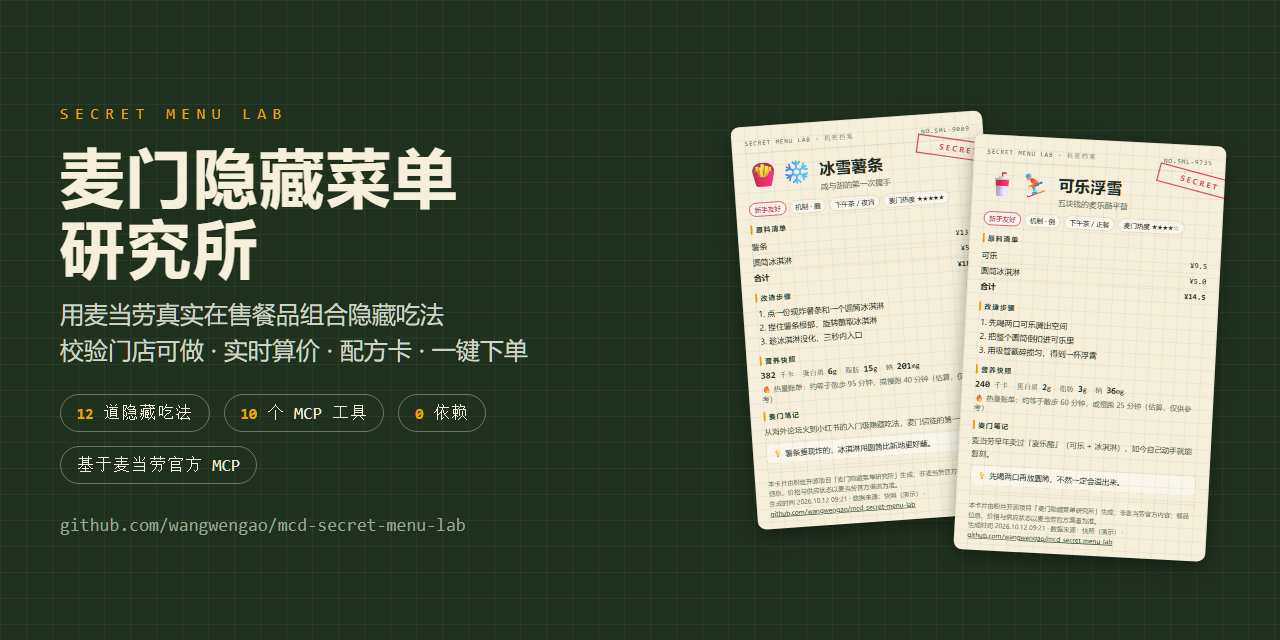
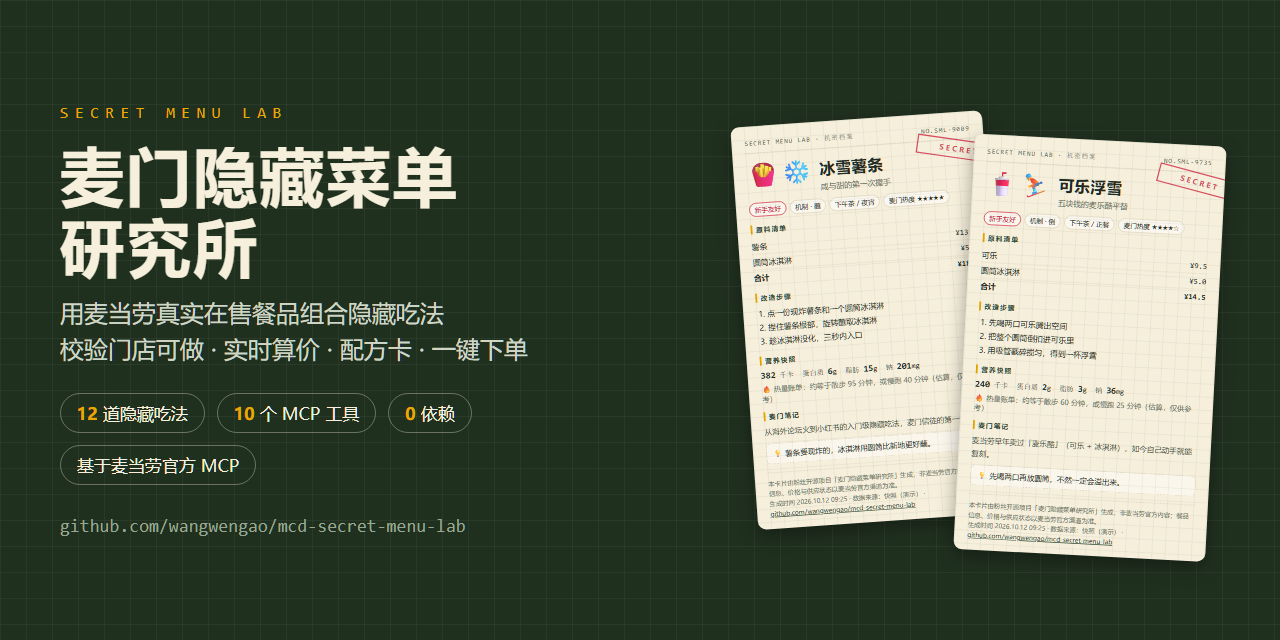
fix(social): 社交预览模板类名与卡片样式冲突

diff --git a/docs/demo.html b/docs/demo.html
@@ -137,7 +137,7 @@ ol.steps{margin:0;padding-left:18px;font-size:13px;line-height:1.75;}
   </section>
   <footer class="card__footer">
     本卡片由粉丝开源项目「麦门隐藏菜单研究所」生成，非麦当劳官方内容；餐品信息、价格与供应状态以麦当劳官方渠道为准。<br>
-    生成时间 2026.10.12 09:21 · 数据来源：快照（演示） · <a href="https://github.com/wangwengao/mcd-secret-menu-lab">github.com/wangwengao/mcd-secret-menu-lab</a>
+    生成时间 2026.10.12 09:25 · 数据来源：快照（演示） · <a href="https://github.com/wangwengao/mcd-secret-menu-lab">github.com/wangwengao/mcd-secret-menu-lab</a>
   </footer>
 </article>
 <div class="slot__actions">
@@ -208,7 +208,7 @@ ol.steps{margin:0;padding-left:18px;font-size:13px;line-height:1.75;}
   </section>
   <footer class="card__footer">
     本卡片由粉丝开源项目「麦门隐藏菜单研究所」生成，非麦当劳官方内容；餐品信息、价格与供应状态以麦当劳官方渠道为准。<br>
-    生成时间 2026.10.12 09:21 · 数据来源：快照（演示） · <a href="https://github.com/wangwengao/mcd-secret-menu-lab">github.com/wangwengao/mcd-secret-menu-lab</a>
+    生成时间 2026.10.12 09:25 · 数据来源：快照（演示） · <a href="https://github.com/wangwengao/mcd-secret-menu-lab">github.com/wangwengao/mcd-secret-menu-lab</a>
   </footer>
 </article>
 <div class="slot__actions">
@@ -279,7 +279,7 @@ ol.steps{margin:0;padding-left:18px;font-size:13px;line-height:1.75;}
   </section>
   <footer class="card__footer">
     本卡片由粉丝开源项目「麦门隐藏菜单研究所」生成，非麦当劳官方内容；餐品信息、价格与供应状态以麦当劳官方渠道为准。<br>
-    生成时间 2026.10.12 09:21 · 数据来源：快照（演示） · <a href="https://github.com/wangwengao/mcd-secret-menu-lab">github.com/wangwengao/mcd-secret-menu-lab</a>
+    生成时间 2026.10.12 09:25 · 数据来源：快照（演示） · <a href="https://github.com/wangwengao/mcd-secret-menu-lab">github.com/wangwengao/mcd-secret-menu-lab</a>
   </footer>
 </article>
 <div class="slot__actions">
@@ -350,7 +350,7 @@ ol.steps{margin:0;padding-left:18px;font-size:13px;line-height:1.75;}
   </section>
   <footer class="card__footer">
     本卡片由粉丝开源项目「麦门隐藏菜单研究所」生成，非麦当劳官方内容；餐品信息、价格与供应状态以麦当劳官方渠道为准。<br>
-    生成时间 2026.10.12 09:21 · 数据来源：快照（演示） · <a href="https://github.com/wangwengao/mcd-secret-menu-lab">github.com/wangwengao/mcd-secret-menu-lab</a>
+    生成时间 2026.10.12 09:25 · 数据来源：快照（演示） · <a href="https://github.com/wangwengao/mcd-secret-menu-lab">github.com/wangwengao/mcd-secret-menu-lab</a>
   </footer>
 </article>
 <div class="slot__actions">
@@ -421,7 +421,7 @@ ol.steps{margin:0;padding-left:18px;font-size:13px;line-height:1.75;}
   </section>
   <footer class="card__footer">
     本卡片由粉丝开源项目「麦门隐藏菜单研究所」生成，非麦当劳官方内容；餐品信息、价格与供应状态以麦当劳官方渠道为准。<br>
-    生成时间 2026.10.12 09:21 · 数据来源：快照（演示） · <a href="https://github.com/wangwengao/mcd-secret-menu-lab">github.com/wangwengao/mcd-secret-menu-lab</a>
+    生成时间 2026.10.12 09:25 · 数据来源：快照（演示） · <a href="https://github.com/wangwengao/mcd-secret-menu-lab">github.com/wangwengao/mcd-secret-menu-lab</a>
   </footer>
 </article>
 <div class="slot__actions">
@@ -492,7 +492,7 @@ ol.steps{margin:0;padding-left:18px;font-size:13px;line-height:1.75;}
   </section>
   <footer class="card__footer">
     本卡片由粉丝开源项目「麦门隐藏菜单研究所」生成，非麦当劳官方内容；餐品信息、价格与供应状态以麦当劳官方渠道为准。<br>
-    生成时间 2026.10.12 09:21 · 数据来源：快照（演示） · <a href="https://github.com/wangwengao/mcd-secret-menu-lab">github.com/wangwengao/mcd-secret-menu-lab</a>
+    生成时间 2026.10.12 09:25 · 数据来源：快照（演示） · <a href="https://github.com/wangwengao/mcd-secret-menu-lab">github.com/wangwengao/mcd-secret-menu-lab</a>
   </footer>
 </article>
 <div class="slot__actions">
@@ -563,7 +563,7 @@ ol.steps{margin:0;padding-left:18px;font-size:13px;line-height:1.75;}
   </section>
   <footer class="card__footer">
     本卡片由粉丝开源项目「麦门隐藏菜单研究所」生成，非麦当劳官方内容；餐品信息、价格与供应状态以麦当劳官方渠道为准。<br>
-    生成时间 2026.10.12 09:21 · 数据来源：快照（演示） · <a href="https://github.com/wangwengao/mcd-secret-menu-lab">github.com/wangwengao/mcd-secret-menu-lab</a>
+    生成时间 2026.10.12 09:25 · 数据来源：快照（演示） · <a href="https://github.com/wangwengao/mcd-secret-menu-lab">github.com/wangwengao/mcd-secret-menu-lab</a>
   </footer>
 </article>
 <div class="slot__actions">
@@ -634,7 +634,7 @@ ol.steps{margin:0;padding-left:18px;font-size:13px;line-height:1.75;}
   </section>
   <footer class="card__footer">
     本卡片由粉丝开源项目「麦门隐藏菜单研究所」生成，非麦当劳官方内容；餐品信息、价格与供应状态以麦当劳官方渠道为准。<br>
-    生成时间 2026.10.12 09:21 · 数据来源：快照（演示） · <a href="https://github.com/wangwengao/mcd-secret-menu-lab">github.com/wangwengao/mcd-secret-menu-lab</a>
+    生成时间 2026.10.12 09:25 · 数据来源：快照（演示） · <a href="https://github.com/wangwengao/mcd-secret-menu-lab">github.com/wangwengao/mcd-secret-menu-lab</a>
   </footer>
 </article>
 <div class="slot__actions">
@@ -705,7 +705,7 @@ ol.steps{margin:0;padding-left:18px;font-size:13px;line-height:1.75;}
   </section>
   <footer class="card__footer">
     本卡片由粉丝开源项目「麦门隐藏菜单研究所」生成，非麦当劳官方内容；餐品信息、价格与供应状态以麦当劳官方渠道为准。<br>
-    生成时间 2026.10.12 09:21 · 数据来源：快照（演示） · <a href="https://github.com/wangwengao/mcd-secret-menu-lab">github.com/wangwengao/mcd-secret-menu-lab</a>
+    生成时间 2026.10.12 09:25 · 数据来源：快照（演示） · <a href="https://github.com/wangwengao/mcd-secret-menu-lab">github.com/wangwengao/mcd-secret-menu-lab</a>
   </footer>
 </article>
 <div class="slot__actions">
@@ -776,7 +776,7 @@ ol.steps{margin:0;padding-left:18px;font-size:13px;line-height:1.75;}
   </section>
   <footer class="card__footer">
     本卡片由粉丝开源项目「麦门隐藏菜单研究所」生成，非麦当劳官方内容；餐品信息、价格与供应状态以麦当劳官方渠道为准。<br>
-    生成时间 2026.10.12 09:21 · 数据来源：快照（演示） · <a href="https://github.com/wangwengao/mcd-secret-menu-lab">github.com/wangwengao/mcd-secret-menu-lab</a>
+    生成时间 2026.10.12 09:25 · 数据来源：快照（演示） · <a href="https://github.com/wangwengao/mcd-secret-menu-lab">github.com/wangwengao/mcd-secret-menu-lab</a>
   </footer>
 </article>
 <div class="slot__actions">
@@ -848,7 +848,7 @@ ol.steps{margin:0;padding-left:18px;font-size:13px;line-height:1.75;}
   </section>
   <footer class="card__footer">
     本卡片由粉丝开源项目「麦门隐藏菜单研究所」生成，非麦当劳官方内容；餐品信息、价格与供应状态以麦当劳官方渠道为准。<br>
-    生成时间 2026.10.12 09:21 · 数据来源：快照（演示） · <a href="https://github.com/wangwengao/mcd-secret-menu-lab">github.com/wangwengao/mcd-secret-menu-lab</a>
+    生成时间 2026.10.12 09:25 · 数据来源：快照（演示） · <a href="https://github.com/wangwengao/mcd-secret-menu-lab">github.com/wangwengao/mcd-secret-menu-lab</a>
   </footer>
 </article>
 <div class="slot__actions">
@@ -919,7 +919,7 @@ ol.steps{margin:0;padding-left:18px;font-size:13px;line-height:1.75;}
   </section>
   <footer class="card__footer">
     本卡片由粉丝开源项目「麦门隐藏菜单研究所」生成，非麦当劳官方内容；餐品信息、价格与供应状态以麦当劳官方渠道为准。<br>
-    生成时间 2026.10.12 09:21 · 数据来源：快照（演示） · <a href="https://github.com/wangwengao/mcd-secret-menu-lab">github.com/wangwengao/mcd-secret-menu-lab</a>
+    生成时间 2026.10.12 09:25 · 数据来源：快照（演示） · <a href="https://github.com/wangwengao/mcd-secret-menu-lab">github.com/wangwengao/mcd-secret-menu-lab</a>
   </footer>
 </article>
 <div class="slot__actions">

diff --git a/docs/social.html b/docs/social.html
@@ -11,9 +11,9 @@ body{width:1280px;height:640px;overflow:hidden;background:#20301f;background-ima
 .kicker{font-family:ui-monospace,Consolas,monospace;letter-spacing:.4em;color:var(--gold);font-size:16px;margin-bottom:18px;}
 .left h1{font-size:64px;letter-spacing:.04em;line-height:1.1;margin-bottom:14px;}
 .sub{font-size:24px;color:#cfd6c6;line-height:1.5;margin-bottom:26px;}
-.stats{display:flex;gap:12px;flex-wrap:wrap;}
-.stat{border:1.5px solid rgba(246,239,220,.35);border-radius:999px;padding:8px 16px;font-size:17px;}
-.stat b{color:var(--gold);}
+.pills{display:flex;gap:12px;flex-wrap:wrap;}
+.pill{border:1.5px solid rgba(246,239,220,.35);border-radius:999px;padding:8px 16px;font-size:17px;}
+.pill b{color:var(--gold);}
 .url{margin-top:30px;font-family:ui-monospace,Consolas,monospace;font-size:18px;color:#9aa892;}
 .right{position:relative;width:560px;height:640px;flex:none;}
 .right .card{position:absolute;top:50%;left:0;width:420px;transform-origin:center;}
@@ -53,11 +53,11 @@ ol.steps{margin:0;padding-left:18px;font-size:13px;line-height:1.75;}
     <div class="kicker">SECRET MENU LAB</div>
     <h1>麦门隐藏菜单<br>研究所</h1>
     <div class="sub">用麦当劳真实在售餐品组合隐藏吃法<br>校验门店可做 · 实时算价 · 配方卡 · 一键下单</div>
-    <div class="stats">
-      <span class="stat"><b>12</b> 道隐藏吃法</span>
-      <span class="stat"><b>10</b> 个 MCP 工具</span>
-      <span class="stat"><b>0</b> 依赖</span>
-      <span class="stat">基于麦当劳官方 MCP</span>
+    <div class="pills">
+      <span class="pill"><b>12</b> 道隐藏吃法</span>
+      <span class="pill"><b>10</b> 个 MCP 工具</span>
+      <span class="pill"><b>0</b> 依赖</span>
+      <span class="pill">基于麦当劳官方 MCP</span>
     </div>
     <div class="url">github.com/wangwengao/mcd-secret-menu-lab</div>
   </div>
@@ -104,7 +104,7 @@ ol.steps{margin:0;padding-left:18px;font-size:13px;line-height:1.75;}
   </section>
   <footer class="card__footer">
     本卡片由粉丝开源项目「麦门隐藏菜单研究所」生成，非麦当劳官方内容；餐品信息、价格与供应状态以麦当劳官方渠道为准。<br>
-    生成时间 2026.10.12 09:21 · 数据来源：快照（演示） · <a href="https://github.com/wangwengao/mcd-secret-menu-lab">github.com/wangwengao/mcd-secret-menu-lab</a>
+    生成时间 2026.10.12 09:25 · 数据来源：快照（演示） · <a href="https://github.com/wangwengao/mcd-secret-menu-lab">github.com/wangwengao/mcd-secret-menu-lab</a>
   </footer>
 </article>
 <article class="card">
@@ -149,7 +149,7 @@ ol.steps{margin:0;padding-left:18px;font-size:13px;line-height:1.75;}
   </section>
   <footer class="card__footer">
     本卡片由粉丝开源项目「麦门隐藏菜单研究所」生成，非麦当劳官方内容；餐品信息、价格与供应状态以麦当劳官方渠道为准。<br>
-    生成时间 2026.10.12 09:21 · 数据来源：快照（演示） · <a href="https://github.com/wangwengao/mcd-secret-menu-lab">github.com/wangwengao/mcd-secret-menu-lab</a>
+    生成时间 2026.10.12 09:25 · 数据来源：快照（演示） · <a href="https://github.com/wangwengao/mcd-secret-menu-lab">github.com/wangwengao/mcd-secret-menu-lab</a>
   </footer>
 </article>
   </div>
